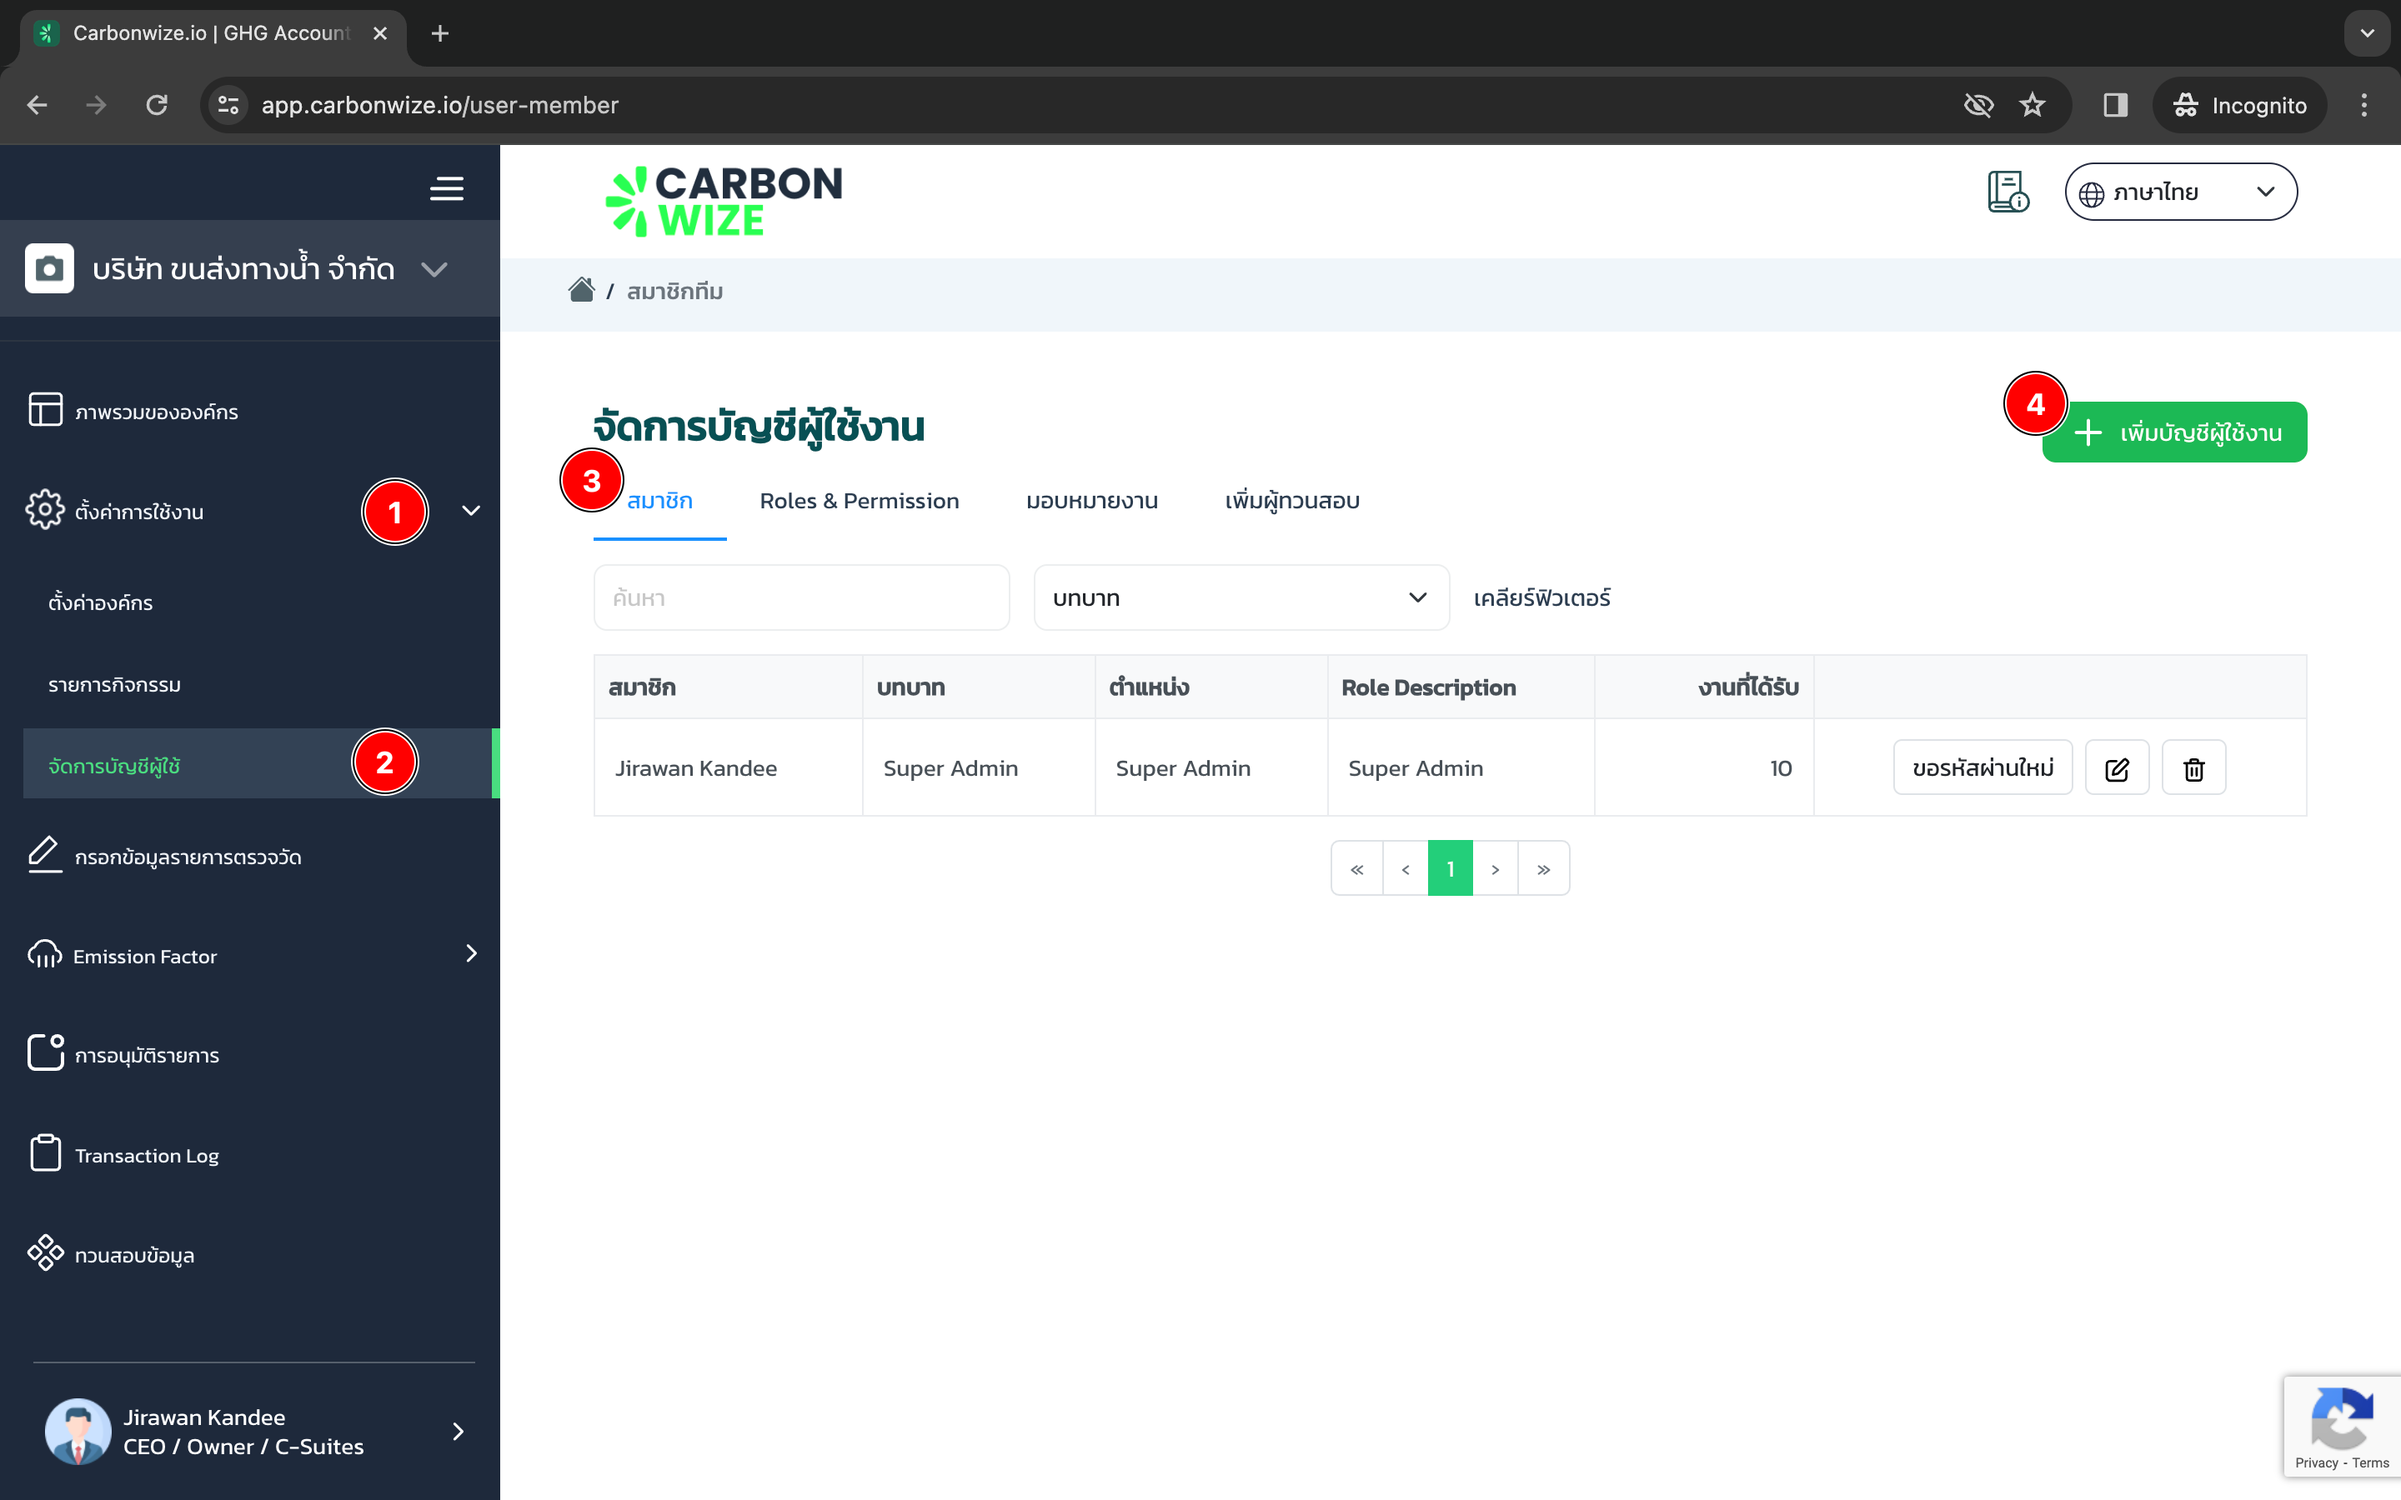
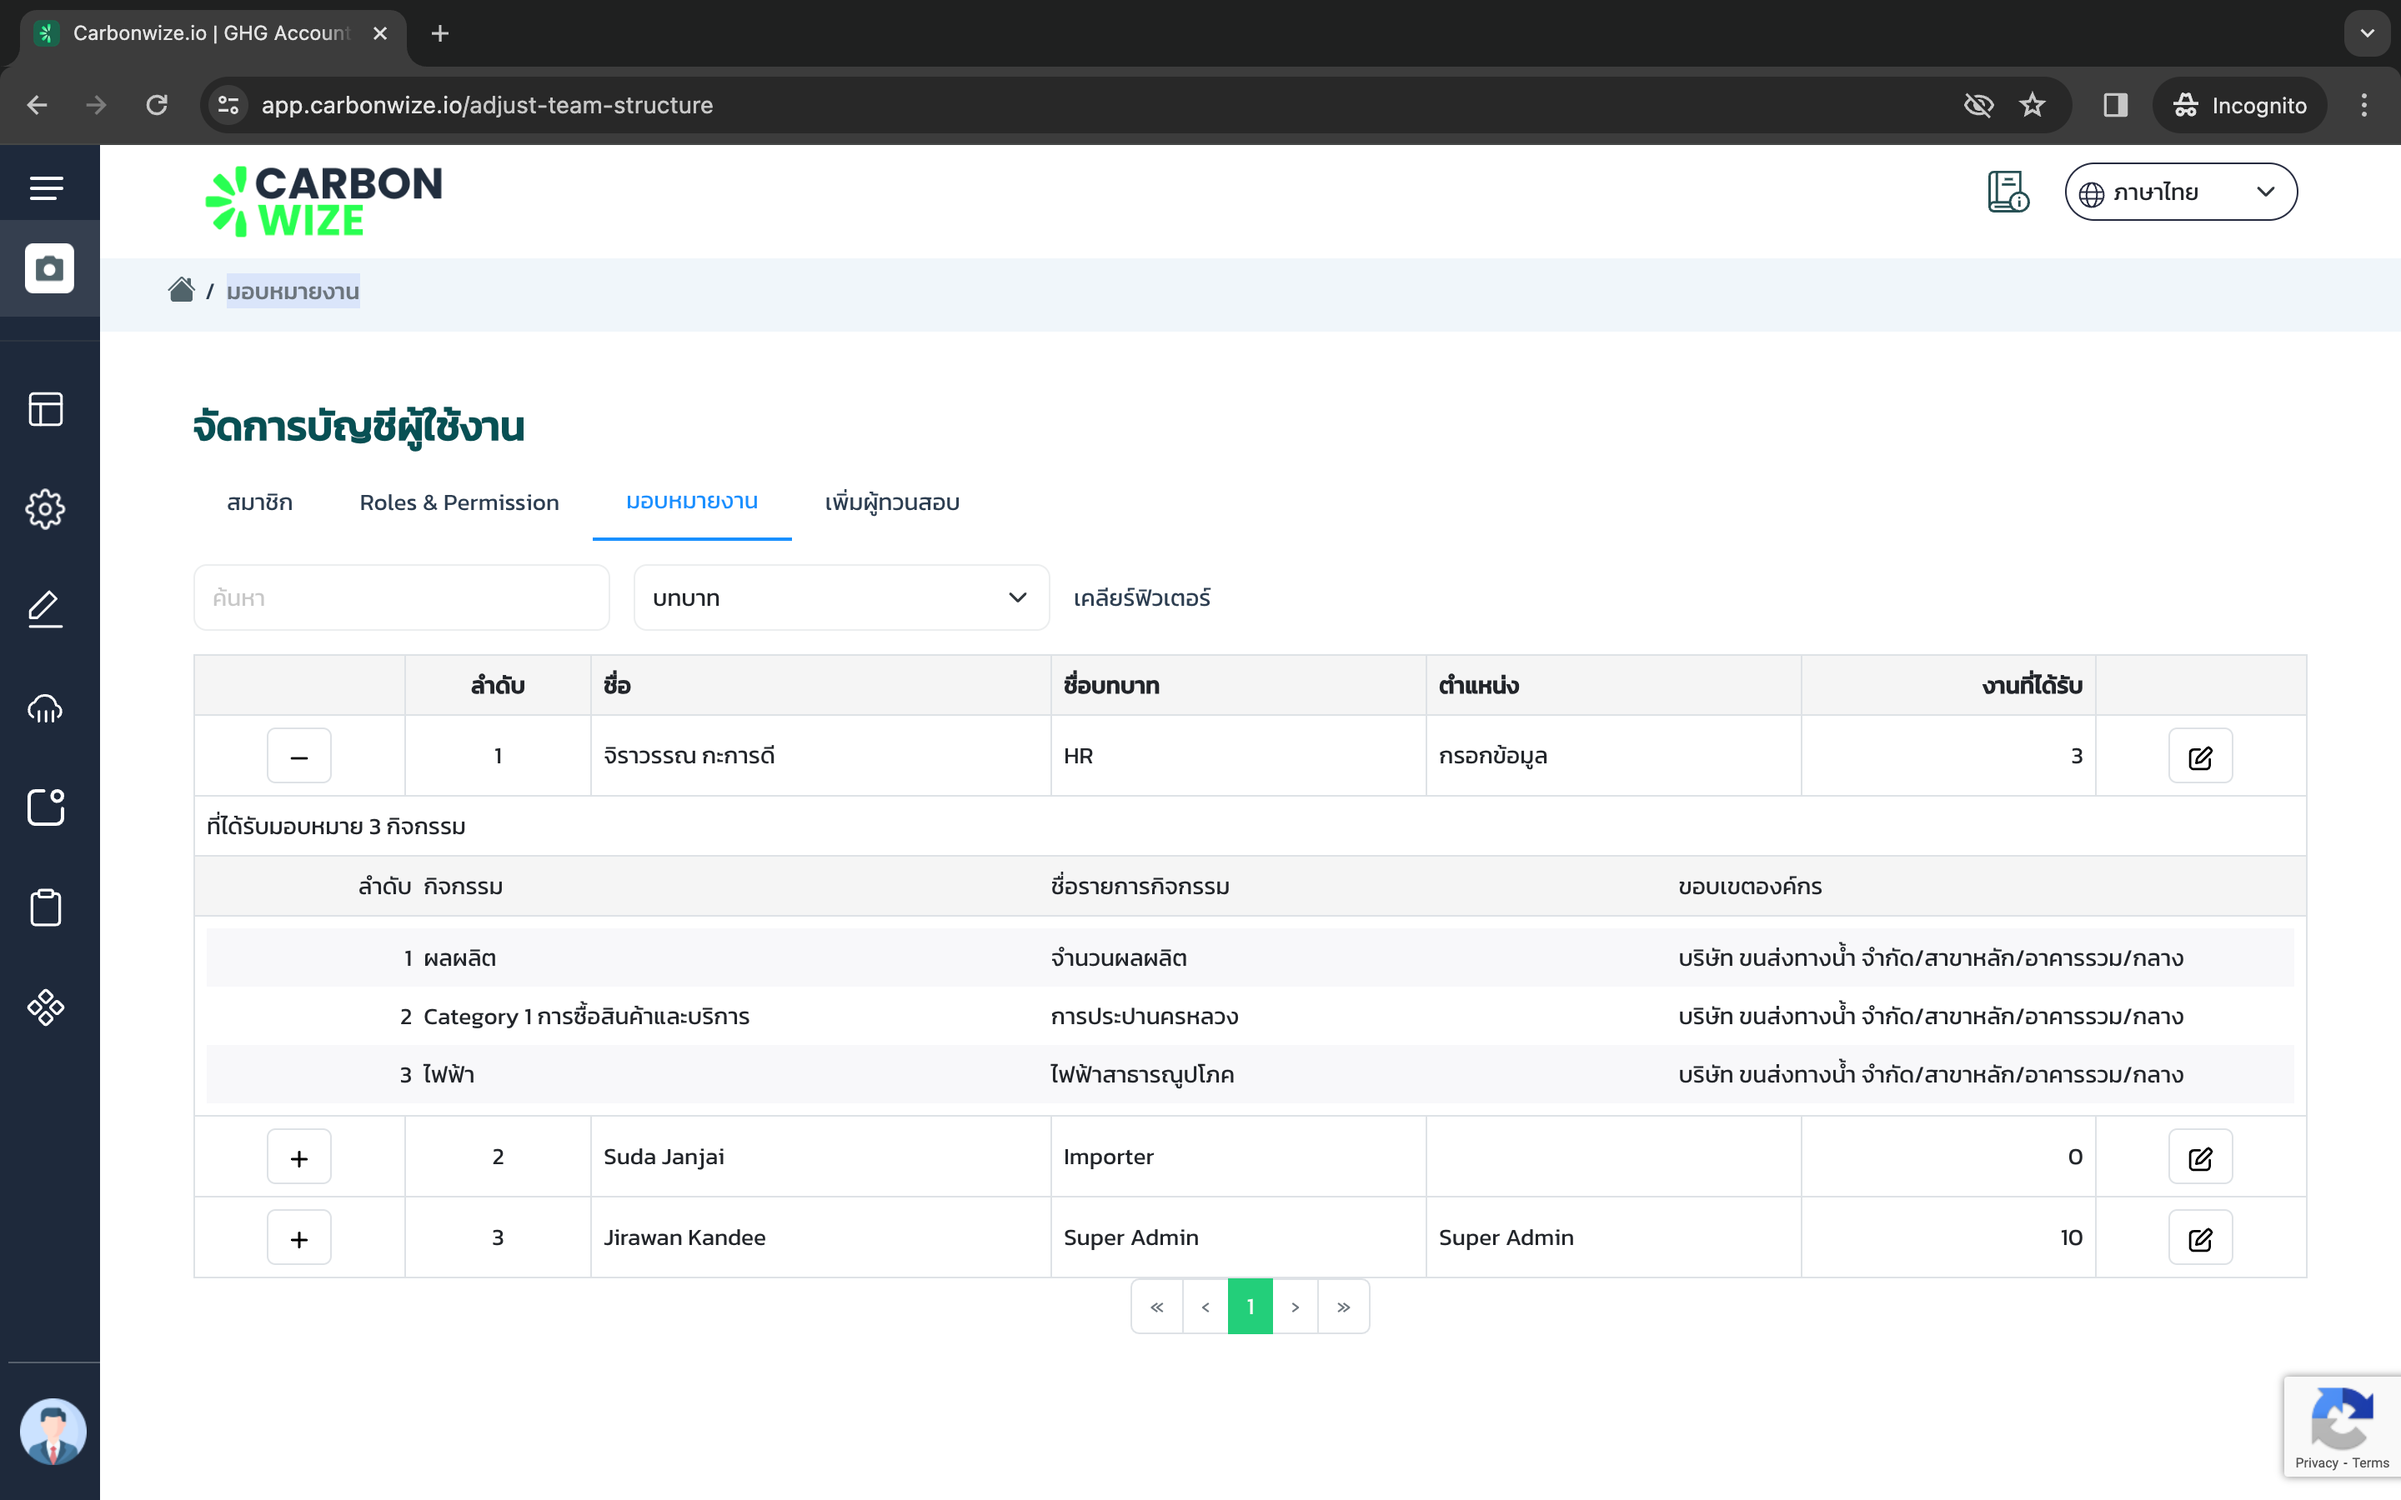
GITBOOK-41: change request with no subject merged in GitBook

diff --git a/platformguides/setup/undefined-3/README.md b/platformguides/setup/undefined-3/README.md
@@ -2,7 +2,7 @@
 
 ## **ขั้นตอนการเพิ่มสมาชิก**
 
-<figure><img src="../../../.gitbook/assets/image.png" alt=""><figcaption></figcaption></figure>
+<figure><img src="../../../.gitbook/assets/image (1).png" alt=""><figcaption></figcaption></figure>
 
 1. กดปุ่มเมนู ตั้งค่าการใช้งาน
 2. กดปุ่มเมนู จัดการบัญชีผู้ใช้
@@ -11,7 +11,7 @@
 
 
 
-<figure><img src="../../../.gitbook/assets/image (1).png" alt=""><figcaption></figcaption></figure>
+<figure><img src="../../../.gitbook/assets/image (1) (1).png" alt=""><figcaption></figcaption></figure>
 
 1. กรอกชื่อ
 2. กรอกนามสกุล

diff --git a/platformguides-2/auditor-at-cwallet.md b/platformguides-2/auditor-at-cwallet.md
@@ -8,7 +8,7 @@
 
 
 
-<figure><img src="../.gitbook/assets/image (1) (1) (1) (1) (1) (1).png" alt=""><figcaption></figcaption></figure>
+<figure><img src="../.gitbook/assets/image (1) (1) (1) (1) (1) (1) (1).png" alt=""><figcaption></figcaption></figure>
 
 1. เมื่อลงทะเบียนและได้รับเมลแจ้งเตือนแล้ว รอทาง Carbonwize ติดต่อและส่งเมลตอบกลับอีกครั้ง
 

diff --git a/platformguides-1/undefined-1.md b/platformguides-1/undefined-1.md
@@ -6,7 +6,7 @@
 
 
 
-<figure><img src="../.gitbook/assets/image (1) (1) (1) (1).png" alt=""><figcaption></figcaption></figure>
+<figure><img src="../.gitbook/assets/image (1) (1) (1) (1) (1).png" alt=""><figcaption></figcaption></figure>
 
 1. เข้าที่ลิงก์ https://m.carbonwize.io/ =>กด Create a new account
 2. กรอกข้อมูลทั้งหมดให้ครบถ้วน

diff --git a/platformguides/setup/undefined.md b/platformguides/setup/undefined.md
@@ -2,7 +2,7 @@
 
 ## ตั้งค่าโครงสร้างบริษัท
 
-<figure><img src="../../.gitbook/assets/image (1) (1) (1) (1) (1) (1) (1).png" alt=""><figcaption></figcaption></figure>
+<figure><img src="../../.gitbook/assets/image (1) (1) (1) (1) (1) (1) (1) (1).png" alt=""><figcaption></figcaption></figure>
 
 1. กด icon ตั้งค่าบริษัท
 

diff --git a/platformguides/setup/undefined-1/undefined-1-1.md b/platformguides/setup/undefined-1/undefined-1-1.md
@@ -27,7 +27,7 @@
 
 
 
-<figure><img src="../../../.gitbook/assets/image (1) (1) (1).png" alt=""><figcaption></figcaption></figure>
+<figure><img src="../../../.gitbook/assets/image (1) (1) (1) (1).png" alt=""><figcaption></figcaption></figure>
 
 1. แก้ไขข้อมูล
 2. กดปุ่ม บันทึก

diff --git a/platformguides/setup/undefined-3/undefined-1.md b/platformguides/setup/undefined-3/undefined-1.md
@@ -30,3 +30,9 @@
 
 1. เลือกรายการกิจกรรม
 2. กดปุ่ม บันทึก
+
+
+
+<figure><img src="../../../.gitbook/assets/image.png" alt=""><figcaption></figcaption></figure>
+
+1. แสดงงานที่ได้รับมอบหมายถูกต้อง

diff --git a/platformguides/setup/undefined-2.md b/platformguides/setup/undefined-2.md
@@ -10,7 +10,7 @@
 
 
 
-<figure><img src="../../.gitbook/assets/image (1) (1).png" alt=""><figcaption></figcaption></figure>
+<figure><img src="../../.gitbook/assets/image (1) (1) (1).png" alt=""><figcaption></figcaption></figure>
 
 #### ใส่รายละเอียดของบริษัท
 
